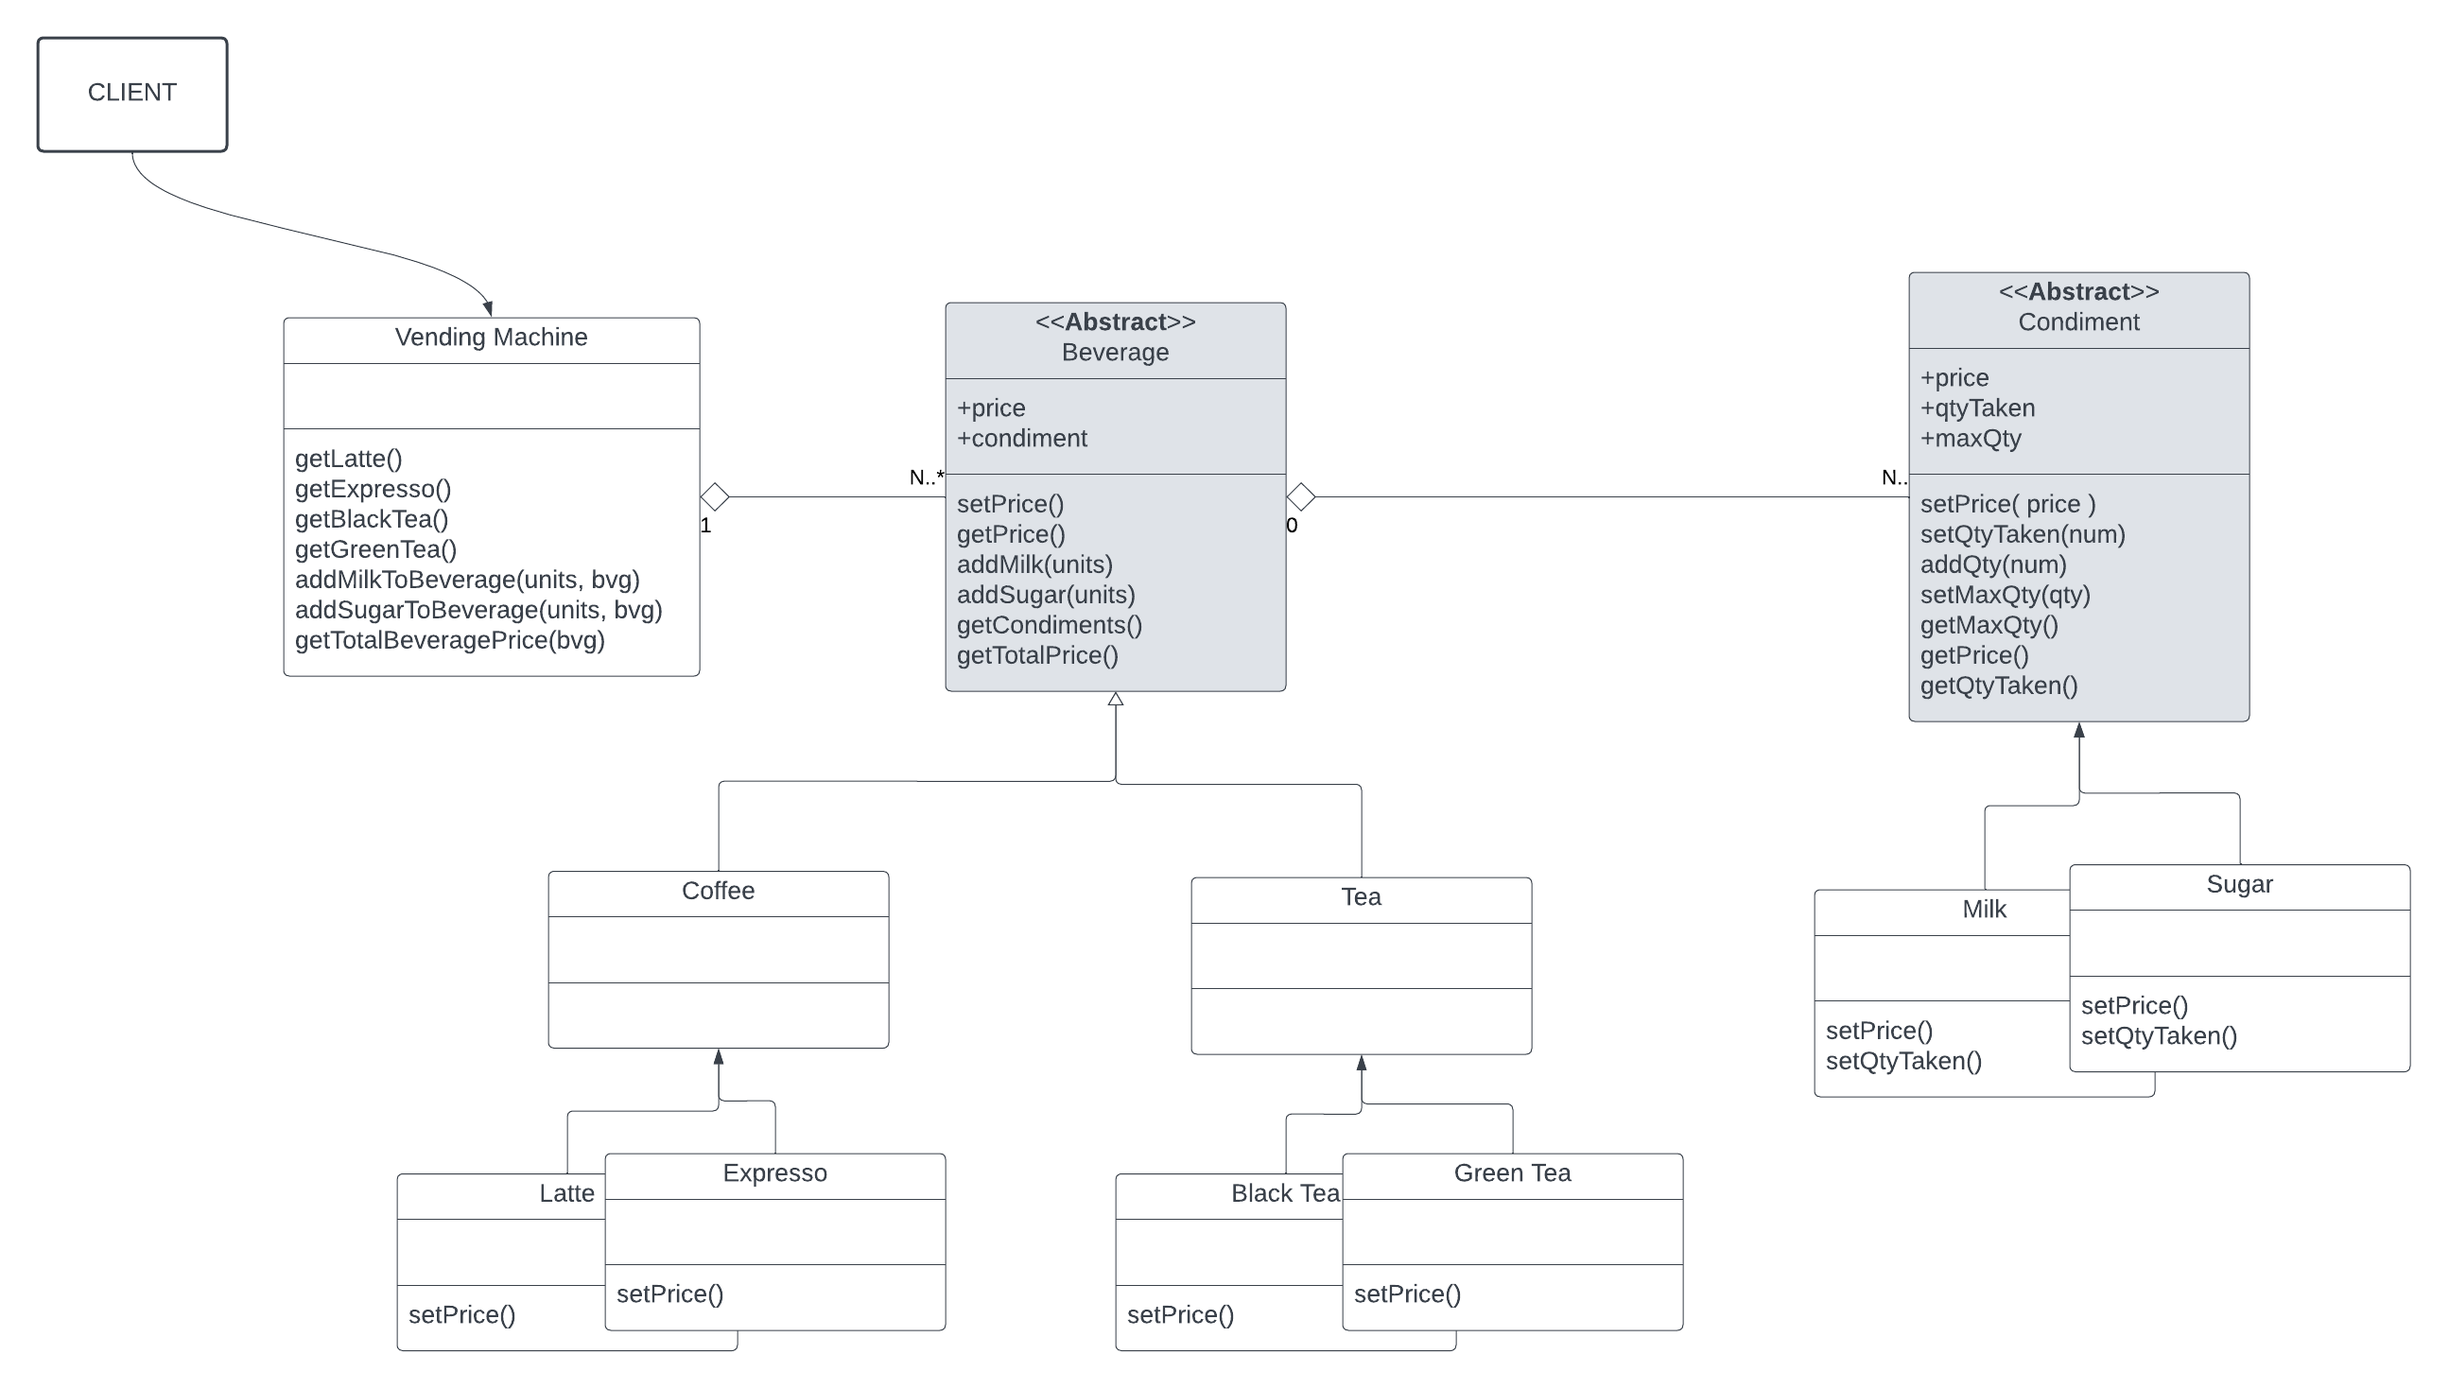
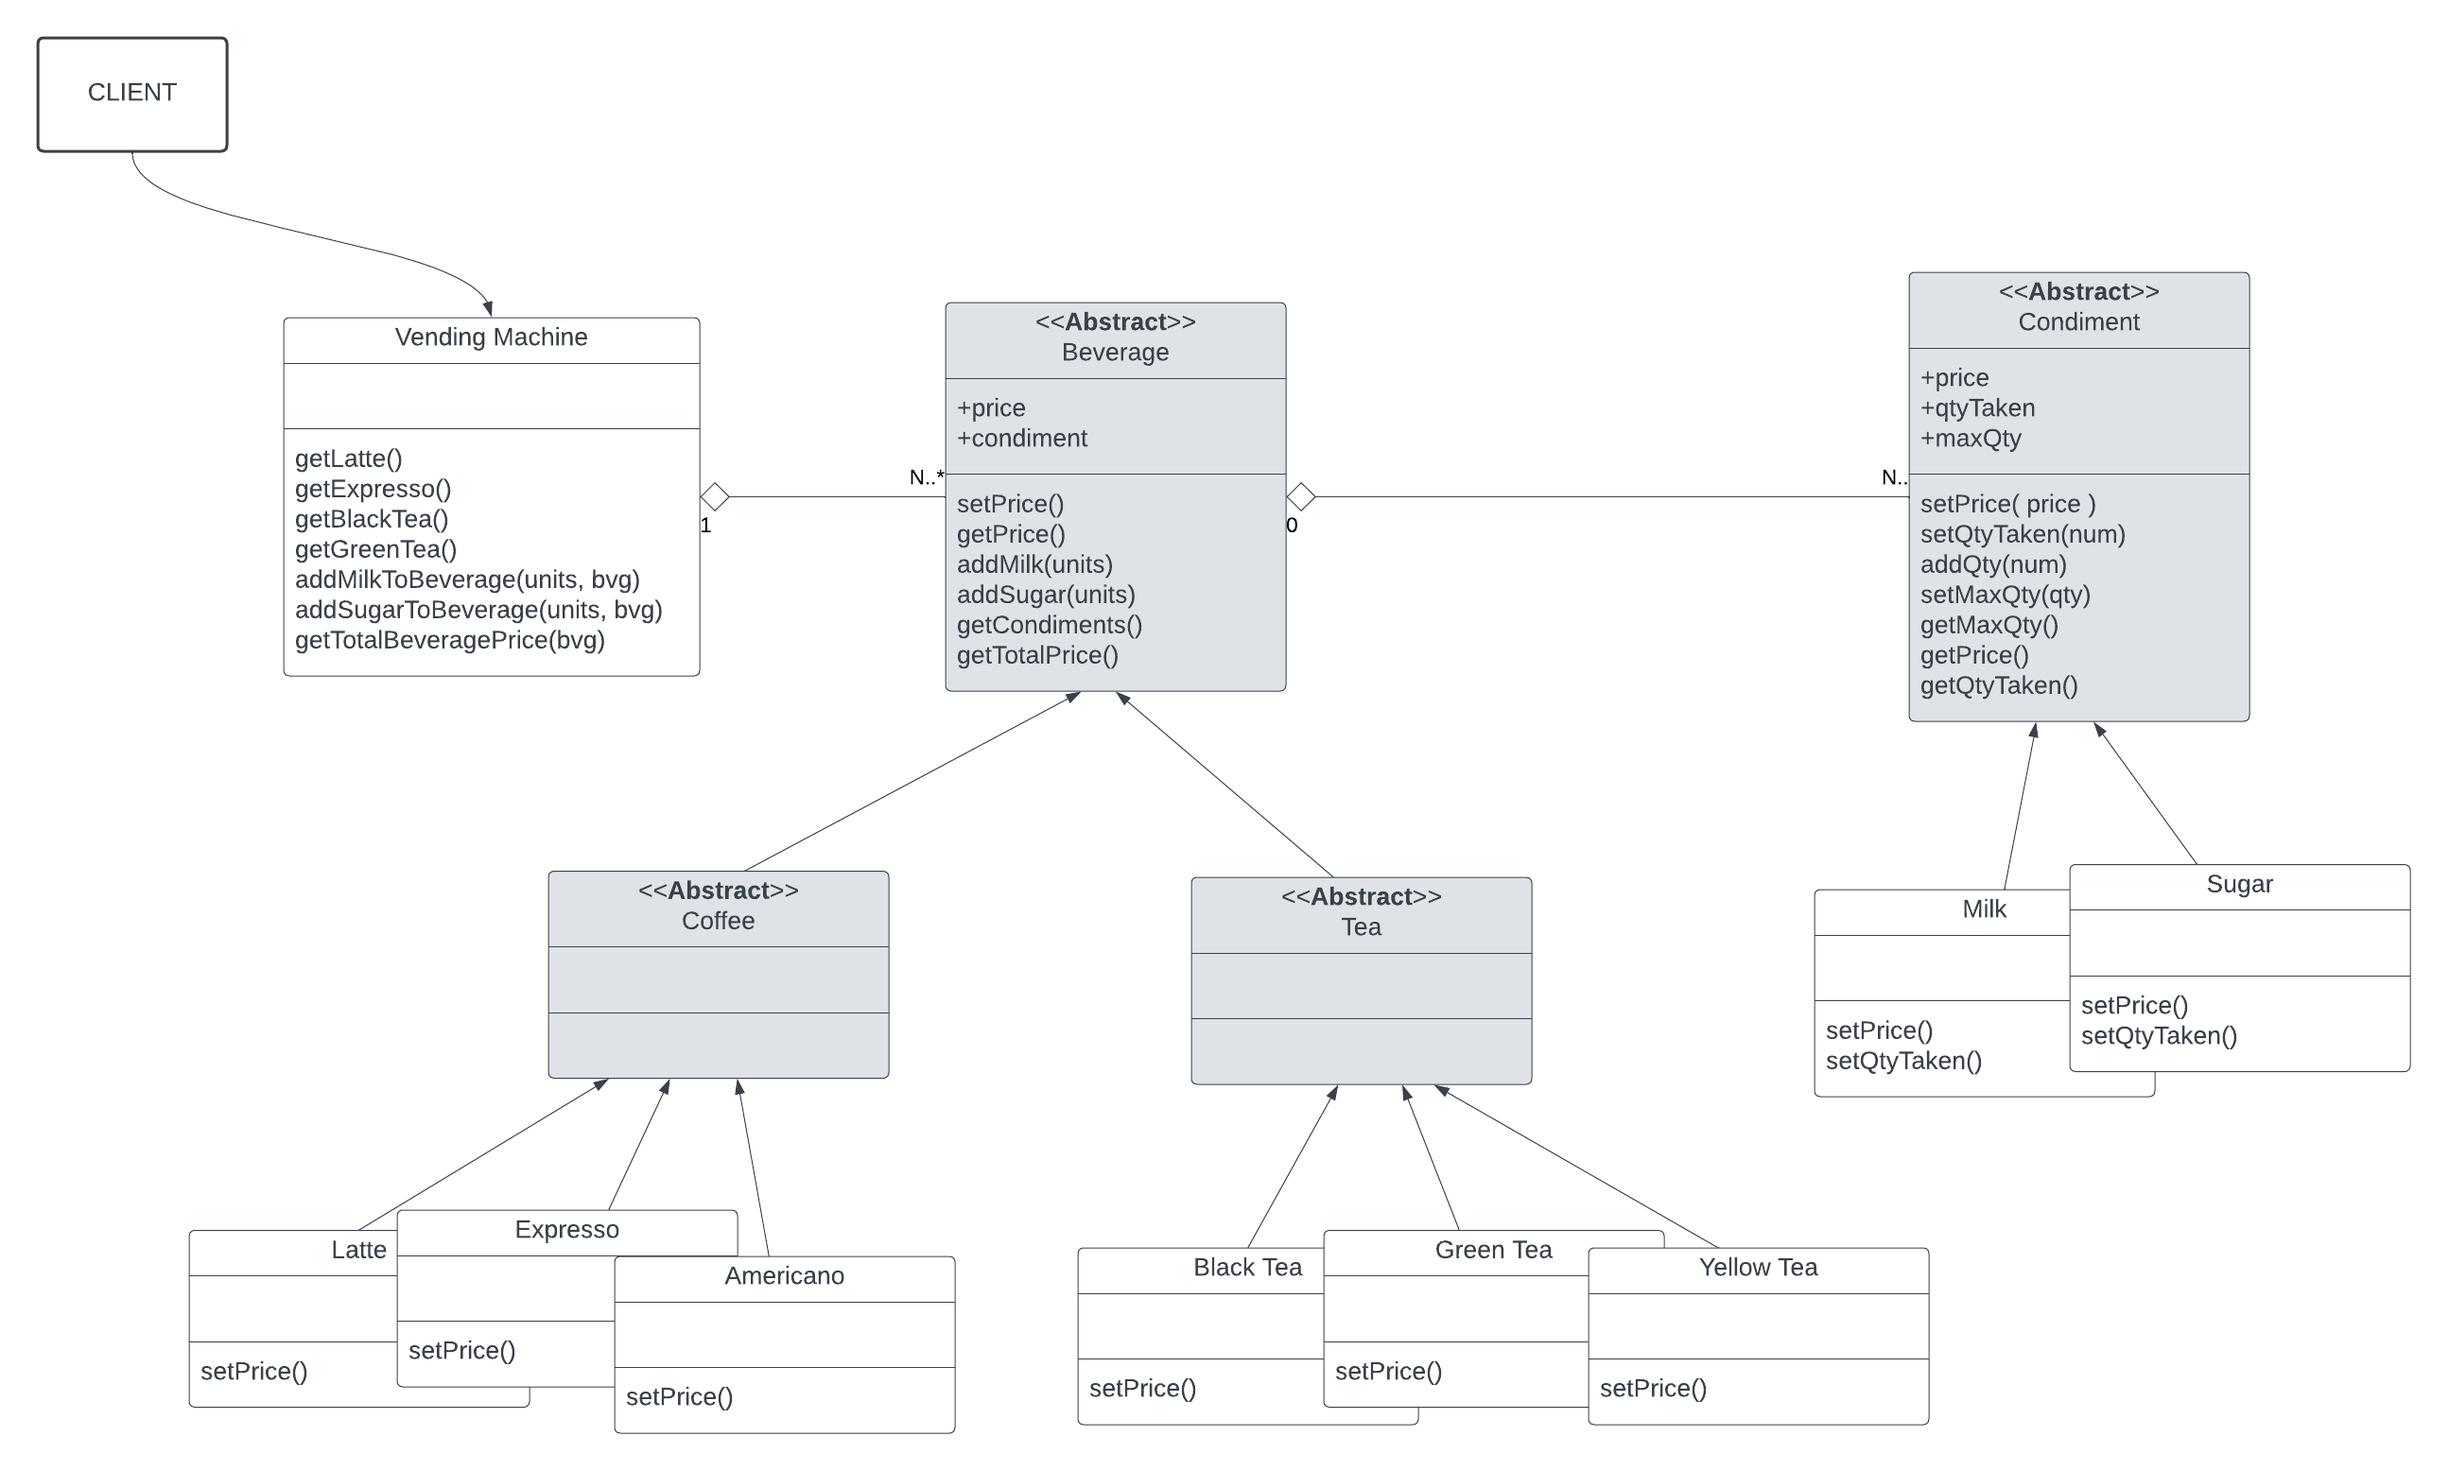
wrote description of each file and method in it

diff --git a/src/test/java/edu/bu/met/cs665/TestMachine.java b/src/test/java/edu/bu/met/cs665/TestMachine.java
@@ -2,11 +2,17 @@ package edu.bu.met.cs665;
 
 
 import static org.junit.Assert.assertEquals;
+import static org.junit.Assert.assertSame;
 
 import org.junit.Test;
 
 import edu.bu.met.cs665.example1.VendingMachine;
+import edu.bu.met.cs665.example1.YellowTea;
+import edu.bu.met.cs665.example1.Beverage;
 import edu.bu.met.cs665.example1.Coffee;
+import edu.bu.met.cs665.example1.Latte;
+import edu.bu.met.cs665.example1.Tea;
+
 
 public class TestMachine {
     public TestMachine(){
@@ -17,44 +23,57 @@ public class TestMachine {
     public void testMakeBeverage(){
         VendingMachine vm = new VendingMachine();
 
-        vm.getLatteCoffee();
+        Coffee myExpresso = vm.makeExpressoCoffee();
+        Latte myLatte = vm.makeLatteCoffee();
+        Beverage myAmericano = vm.makeAmericanoCoffee();
+
+        Tea myBlacktea = vm.makeBlackTea();
+        YellowTea myTea = vm.makeYellowTea();
+        
     }
 
     @Test
     public void testAddCondimentsToBeverage(){
         VendingMachine vm = new VendingMachine();
 
-        Coffee myLatte = vm.getLatteCoffee();
-        System.out.println("MADE THE LATTE");
+        Coffee myLatte = vm.makeLatteCoffee();
 
         vm.addMilkToBeverage(2, myLatte);
 
-        System.out.println("ADDED 2 UNITS MILK");
     }
-
 
     @Test
     public void testBeveragePrice(){
         VendingMachine vm = new VendingMachine();
 
-        Coffee myLatte = vm.getLatteCoffee();
+        Coffee myLatte = vm.makeLatteCoffee();
+        
+        assertEquals(2, vm.getBeverageBasePrice(myLatte),0);
+    }
+
+
+    @Test
+    public void testBeverageTotalPrice(){
+        VendingMachine vm = new VendingMachine();
+
+        Coffee myLatte = vm.makeLatteCoffee();
         vm.addMilkToBeverage(2, myLatte);
         vm.addSugarToBeverage(1, myLatte);
         
-        System.out.println(myLatte.getTotalPrice());
+        // System.out.println(myLatte.getTotalPrice());
         assertEquals(3.5, vm.getTotalBeveragePrice(myLatte), 0);
     }
 
     @Test
-    public void testEdgeCase(){
+    public void testAddAboveLimitCondiments(){
         VendingMachine vm = new VendingMachine();
 
-        Coffee myLatte = vm.getLatteCoffee();
+        Coffee myLatte = vm.makeLatteCoffee();
         vm.addMilkToBeverage(4, myLatte);
         vm.addSugarToBeverage(4, myLatte);
 
 
-        System.out.println(myLatte.getTotalPrice());
+        // System.out.println(myLatte.getTotalPrice());
         assertEquals(5, vm.getTotalBeveragePrice(myLatte), 0);
     }
 }

diff --git a/src/main/java/edu/bu/met/cs665/example1/VendingMachine.java b/src/main/java/edu/bu/met/cs665/example1/VendingMachine.java
@@ -3,19 +3,59 @@
  * Course: CS-665 Software Designs & Patterns
  * Date: 02/05/2024
  * File Name: VendingMachine.java
- * Description: This class is responsible for the methods of Beverage Vending machine.
+ * Description: This class is responsible for the methods of Beverage Vending machine. The client will interact with this class only.
  */
 
 package edu.bu.met.cs665.example1;
 
-import java.util.HashMap;
-
 public class VendingMachine {
-
-    public Latte getLatteCoffee(){
+    /**
+     * makeLatteCoffee returns Latte object
+     * @return
+     */
+    public Latte makeLatteCoffee(){
         return new Latte();
     }
 
+    /**
+     * makeExpressoCoffee returns Expresso object
+     * @return
+     */
+    public Expresso makeExpressoCoffee(){
+        return new Expresso();
+    }
+
+    /**
+     * makeAmericanoCoffee returns Expresso object
+     * @return
+     */
+    public Americano makeAmericanoCoffee(){
+        return new Americano();
+    }
+
+    /**
+     * makeBlackTea returns Expresso object
+     * @return
+     */
+    public BlackTea makeBlackTea(){
+        return new BlackTea();
+    }
+
+    /**
+     * makeYellowTea returns Expresso object
+     * @return
+     */
+    public YellowTea makeYellowTea(){
+        return new YellowTea();
+    }
+
+    /**
+     * makeGreenTea returns Expresso object
+     * @return
+     */
+    public GreenTea makeGreenTea(){
+        return new GreenTea();
+    }
     /**
      *  addMilkToBeverage method adds given units of milk to specified beverage
      * @param units
@@ -32,6 +72,15 @@ public class VendingMachine {
      */
     public void addSugarToBeverage(int units, Beverage bvg){
         bvg.addSugar(units);
+    }
+
+    /**
+     * getBeverageBasePrice returns base price of the given beverage
+     * @param bvg
+     * @return
+     */
+    public int getBeverageBasePrice(Beverage bvg){
+        return bvg.getBasePrice();
     }
     
     /**

diff --git a/src/main/java/edu/bu/met/cs665/example1/Americano.java b/src/main/java/edu/bu/met/cs665/example1/Americano.java
@@ -1,3 +1,11 @@
+/**
+ * Name: Dhruv Prajapati
+ * Course: CS-665 Software Designs & Patterns
+ * Date: 02/06/2024
+ * File Name: Americano.java
+ * Description: This class is responsible for Americano properties and behaviour.This class is a subclass of Coffee class. 
+ */
+
 package edu.bu.met.cs665.example1;
 
 public class Americano extends Coffee{
@@ -5,6 +13,10 @@ public class Americano extends Coffee{
         super.condiments.add(new Milk());
         super.condiments.add(new Sugar());
     }
+    
+    /**
+     * Setter method to set base price of Americano Coffee
+     */
     @Override
     void setBasePrice(int basePrice) {
         super.basePrice = basePrice;

diff --git a/src/main/java/edu/bu/met/cs665/example1/Latte.java b/src/main/java/edu/bu/met/cs665/example1/Latte.java
@@ -1,3 +1,11 @@
+/**
+ * Name: Dhruv Prajapati
+ * Course: CS-665 Software Designs & Patterns
+ * Date: 02/06/2024
+ * File Name: Americano.java
+ * Description: This class is responsible for Latte Macchiato properties and behaviour.This class is a subclass of Coffee class. 
+ */
+
 package edu.bu.met.cs665.example1;
 
 public class Latte extends Coffee{
@@ -5,6 +13,10 @@ public class Latte extends Coffee{
         super.condiments.add(new Milk());
         super.condiments.add(new Sugar());
     }
+    
+    /**
+     * Setter method to set base price of Americano Coffee
+     */
     @Override
     void setBasePrice(int basePrice) {
         super.basePrice = basePrice;

diff --git a/src/main/java/edu/bu/met/cs665/example1/Expresso.java b/src/main/java/edu/bu/met/cs665/example1/Expresso.java
@@ -1,3 +1,11 @@
+/**
+ * Name: Dhruv Prajapati
+ * Course: CS-665 Software Designs & Patterns
+ * Date: 02/06/2024
+ * File Name: Expresso.java
+ * Description: This class is responsible for Expresso properties and behaviour.This class is a subclass of Coffee class.
+ */
+
 package edu.bu.met.cs665.example1;
 
 public class Expresso extends Coffee{
@@ -5,6 +13,10 @@ public class Expresso extends Coffee{
         super.condiments.add(new Milk());
         super.condiments.add(new Sugar());
     }
+    
+    /**
+     * Setter method to set base price of Expresso Coffee
+     */
     @Override
     void setBasePrice(int basePrice) {
         super.basePrice = basePrice;

diff --git a/src/main/java/edu/bu/met/cs665/example1/YellowTea.java b/src/main/java/edu/bu/met/cs665/example1/YellowTea.java
@@ -1,3 +1,10 @@
+/**
+ * Name: Dhruv Prajapati
+ * Course: CS-665 Software Designs & Patterns
+ * Date: 02/06/2024
+ * File Name: YellowTea.java
+ * Description: This class is responsible for YellowTea properties and behaviour.This class is a subclass of Tea class. 
+ */
 package edu.bu.met.cs665.example1;
 
 public class YellowTea extends Tea{
@@ -5,6 +12,10 @@ public class YellowTea extends Tea{
         super.condiments.add(new Milk());
         super.condiments.add(new Sugar());
     }
+    
+    /**
+     * Setter method to set base price of Yellow Tea
+     */
     @Override
     void setBasePrice(int basePrice) {
         super.basePrice = basePrice;

diff --git a/src/main/java/edu/bu/met/cs665/example1/BlackTea.java b/src/main/java/edu/bu/met/cs665/example1/BlackTea.java
@@ -1,3 +1,10 @@
+/**
+ * Name: Dhruv Prajapati
+ * Course: CS-665 Software Designs & Patterns
+ * Date: 02/06/2024
+ * File Name: BlackTea.java
+ * Description: This class is responsible for BlackTea properties and behaviour.This class is a subclass of Tea class. 
+ */
 package edu.bu.met.cs665.example1;
 
 public class BlackTea extends Tea{
@@ -5,6 +12,10 @@ public class BlackTea extends Tea{
         super.condiments.add(new Milk());
         super.condiments.add(new Sugar());
     }
+    
+    /**
+     * Setter method to set base price of Black Tea
+     */
     @Override
     void setBasePrice(int basePrice) {
         super.basePrice = basePrice;

diff --git a/src/main/java/edu/bu/met/cs665/example1/GreenTea.java b/src/main/java/edu/bu/met/cs665/example1/GreenTea.java
@@ -1,3 +1,10 @@
+/**
+ * Name: Dhruv Prajapati
+ * Course: CS-665 Software Designs & Patterns
+ * Date: 02/06/2024
+ * File Name: GreenTea.java
+ * Description: This class is responsible for GreenTea properties and behaviour.This class is a subclass of Tea class. 
+ */
 package edu.bu.met.cs665.example1;
 
 public class GreenTea extends Tea{
@@ -5,6 +12,10 @@ public class GreenTea extends Tea{
         super.condiments.add(new Milk());
         super.condiments.add(new Sugar());
     }
+    
+    /**
+     * Setter method to set base price of Green Tea
+     */
     @Override
     void setBasePrice(int basePrice) {
         super.basePrice = basePrice;

diff --git a/src/main/java/edu/bu/met/cs665/example1/Condiment.java b/src/main/java/edu/bu/met/cs665/example1/Condiment.java
@@ -3,7 +3,7 @@
  * Course: CS-665 Software Designs & Patterns
  * Date: 02/06/2024
  * File Name: Condiment.java
- * Description: This class is responsible for the methods and attributes of a Condiment.
+ * Description: This class is responsible for the methods and attributes of a Condiment. This class is a member of Beverage class
  */
 
 package edu.bu.met.cs665.example1;
@@ -21,6 +21,7 @@ public abstract class Condiment {
     public void setMaxQty(int qty){
         this.maxQty=qty;
     }
+    
     /**
      * addQtyTaken method add given quantity to the existing qty of the condiment taken
      * @param num

diff --git a/src/main/java/edu/bu/met/cs665/example1/Sugar.java b/src/main/java/edu/bu/met/cs665/example1/Sugar.java
@@ -1,6 +1,16 @@
+/**
+ * Name: Dhruv Prajapati
+ * Course: CS-665 Software Designs & Patterns
+ * Date: 02/06/2024
+ * File Name: Milk.java
+ * Description: This class is responsible for the methods and attributes of Sugar. It is a subclass of Condiment.
+ */
 package edu.bu.met.cs665.example1;
 
 public class Sugar extends Condiment{
+    /**
+     * Setter method to set price of sugar
+     */
     @Override
     void setPrice(float price) {
         super.price = price;

diff --git a/src/main/java/edu/bu/met/cs665/example1/Milk.java b/src/main/java/edu/bu/met/cs665/example1/Milk.java
@@ -1,6 +1,16 @@
+/**
+ * Name: Dhruv Prajapati
+ * Course: CS-665 Software Designs & Patterns
+ * Date: 02/06/2024
+ * File Name: Milk.java
+ * Description: This class is responsible for the methods and attributes of Milk. It is a subclass of Condiment.
+ */
 package edu.bu.met.cs665.example1;
 
 public class Milk extends Condiment{
+    /**
+     * Setter method to set price of sugar
+     */
     @Override
     void setPrice(float price) {
         super.price = price;

diff --git a/src/main/java/edu/bu/met/cs665/example1/Beverage.java b/src/main/java/edu/bu/met/cs665/example1/Beverage.java
@@ -3,7 +3,7 @@
  * Course: CS-665 Software Designs & Patterns
  * Date: 02/05/2024
  * File Name: Beverage.java
- * Description: This class is responsible for the methods and attributes of a Beverage.
+ * Description: This class is responsible for the methods and attributes of a Beverage. This class is associated with VendingMachine class
  */
 
 package edu.bu.met.cs665.example1;
